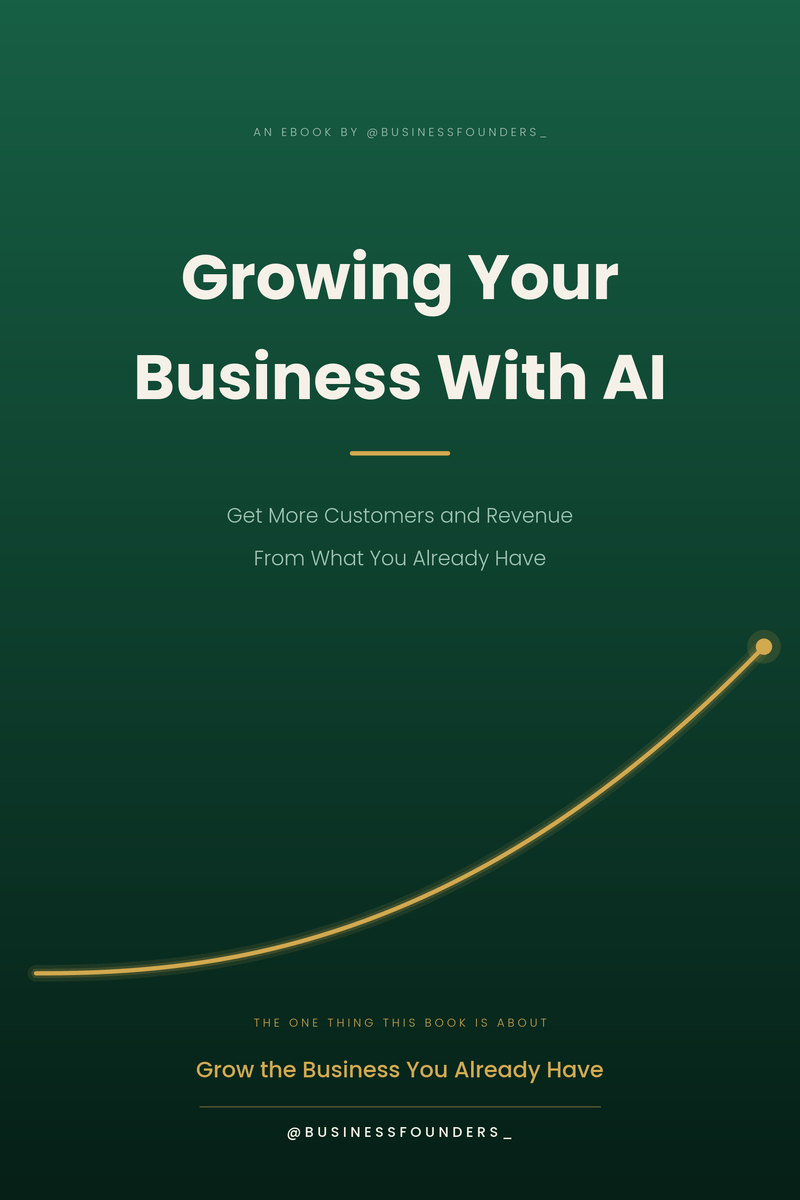
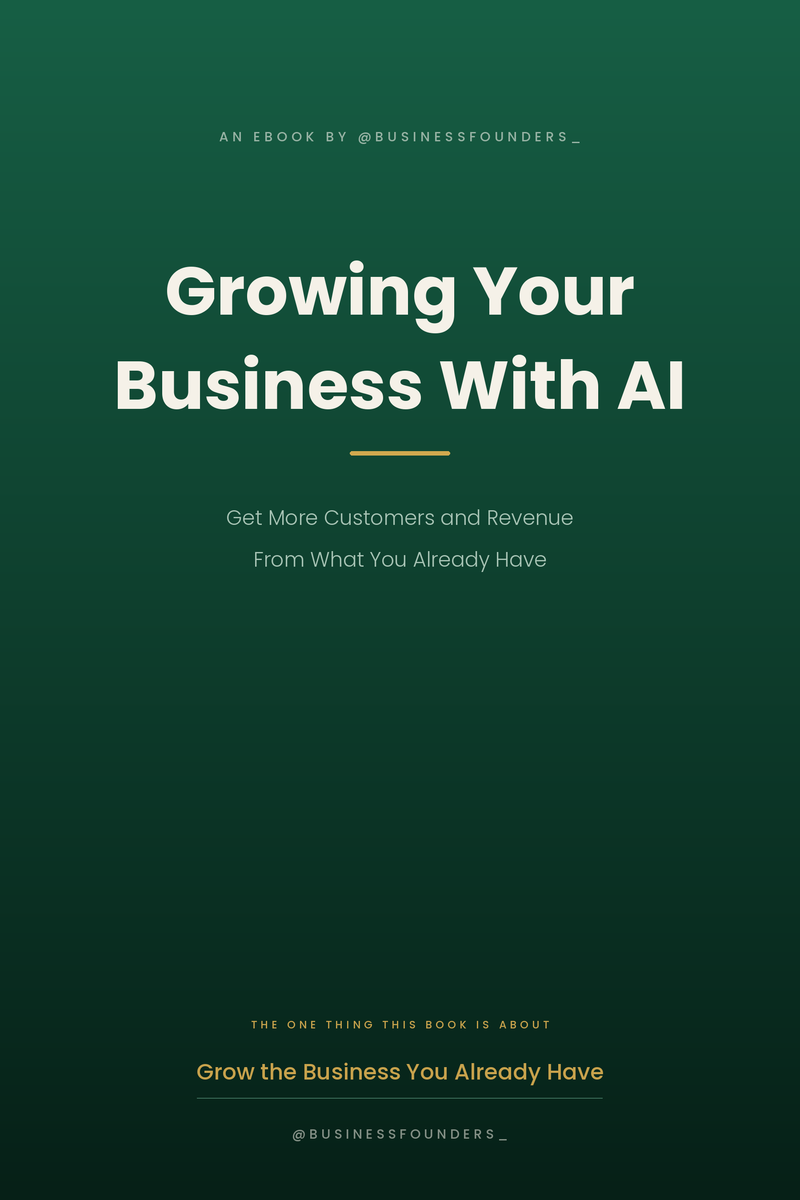
Draw book four's growth curve over the cover instead of printing it
New artwork with the curve removed and the middle band left empty, so
the curve can be animated over it. Replaces the temporary placeholder:
the shop shelf was showing a text mock-up for book 04 while its own page
showed finished art, on the page that sells.

The overlay uses the cover's own 1800x2700 space as its viewBox, so the
coordinates in books-config.js are read straight off the export and hold
at any card width. Measured against the artwork: the subtitle ends at
y=1274 and the caption block starts at y=2297; the curve occupies
1467..2194 with its stroke, and the node glow starts at 1360. That
leaves 86px of clearance above and 104px below, so nothing touches type.

Stroke is 27, not the old 3. That value was tuned for the 200-wide
stand-in viewBox; carried into the cover's 1800-wide space unchanged it
would have rendered under 2px. It now comes out at 5px on a 330px
desktop card and 3px on a 203px phone card.

Made reusable as asked: the path and node live in the theme as a curve
block, so any book can take the same treatment with its own line and
accent. Book 04 is the only one using it today. The detail page carries
the same overlay inline and now has a signature effect for the first
time, which it had lost when the printed curve made the SVG redundant.

Assets rebuilt from the 1800x2700 export at 800x1200 to match the other
three covers. The PNG is deliberately not palette-quantized: at 256
[…]

diff --git a/js/books.js b/js/books.js
@@ -112,24 +112,34 @@
     return cover;
   }
 
+  // A curve drawn over the cover rather than printed into it. The artwork
+  // leaves a band empty for it, so the overlay uses the cover's own
+  // 1800x2700 coordinate space as its viewBox and the numbers in
+  // books-config.js are read straight off the export. Nothing is in pixels,
+  // so it holds at any card width.
+  //
+  // Book 04 is the one using this today. Any book can: give it a curve
+  // block in its theme. The earlier printed curve could not be overlaid
+  // because a freehand line baked into an image has no geometry to target.
+  function curveOverlay(curve) {
+    const svg = document.createElementNS("http://www.w3.org/2000/svg", "svg");
+    svg.setAttribute("viewBox", "0 0 1800 2700");
+    svg.setAttribute("class", "curve");
+    svg.setAttribute("aria-hidden", "true");
+    const n = curve.node;
+    // glow, line, node: the glow sits behind the line, the node above it
+    svg.innerHTML =
+      `<circle class="node-glow" cx="${n.x}" cy="${n.y}" r="${n.glow}" />` +
+      `<path class="curve-path" d="${curve.d}" />` +
+      `<circle class="node" cx="${n.x}" cy="${n.y}" r="${n.r}" />`;
+    return svg;
+  }
+
   function buildCurveCover(theme) {
     const cover = document.createElement("div");
     cover.className = "book-cover";
     cover.appendChild(theme.cover ? coverImage(theme) : coverText(theme));
-    // The drawn curve was for the typographic stand-in. The real cover has
-    // a rising curve printed on it, and no overlay can line up with a curve
-    // baked into an image, so the artwork keeps it to itself.
-    if (theme.cover) return cover;
-    // Inline SVG so the curve can draw itself on section entry
-    const svg = document.createElementNS("http://www.w3.org/2000/svg", "svg");
-    svg.setAttribute("viewBox", "0 0 200 300");
-    svg.setAttribute("class", "curve");
-    svg.setAttribute("aria-hidden", "true");
-    svg.innerHTML =
-      `<path class="curve-path" d="M 18 258 C 70 252, 100 170, 132 116 S 168 58 180 44" />` +
-      `<circle class="node-glow" cx="180" cy="44" r="16" />` +
-      `<circle class="node" cx="180" cy="44" r="5" />`;
-    cover.appendChild(svg);
+    if (theme.curve) cover.appendChild(curveOverlay(theme.curve));
     return cover;
   }
 

diff --git a/book-04.html b/book-04.html
@@ -31,7 +31,7 @@
   <link rel="preconnect" href="https://fonts.gstatic.com" crossorigin />
   <link href="https://fonts.googleapis.com/css2?family=Playfair+Display:ital,wght@0,500;0,600;0,700;1,500&family=Inter:wght@400;500;600&family=Poppins:wght@400;500;600&display=swap" rel="stylesheet" />
   <link rel="stylesheet" href="css/style.css?v=7" />
-  <link rel="stylesheet" href="css/book-page.css?v=18" />
+  <link rel="stylesheet" href="css/book-page.css?v=19" />
 </head>
 <body class="book-page fx-curve" data-effect="curve" style="--bk-bg-top:#175F45; --bk-bg-bottom:#062017; --bk-accent:#D2A94F; --bk-accent-soft:rgba(210,169,79,.45); --bk-accent-faint:rgba(210,169,79,.14); --bk-text:#F5F1E8; --bk-muted:#9FC4B2; --bk-font:'Poppins', 'Inter', sans-serif;">
 
@@ -72,6 +72,15 @@
                 <source srcset="images/covers/book-4-growing-with-ai.webp" type="image/webp" />
                 <img src="images/covers/book-4-growing-with-ai.png" alt="Cover of Growing Your Business With AI" class="cover-img" width="800" height="1200" decoding="async" fetchpriority="high" />
               </picture>
+              <!-- Same overlay the shelf builds from the curve block in
+                   js/books-config.js. viewBox is the cover's own 1800x2700
+                   space, so these numbers match that config exactly; change
+                   both together. -->
+              <svg class="curve" viewBox="0 0 1800 2700" aria-hidden="true">
+                <circle class="node-glow" cx="1690" cy="1480" r="120" />
+                <path class="curve-path" d="M 90 2180 C 520 2168, 880 2090, 1160 1900 S 1545 1610, 1690 1480" />
+                <circle class="node" cx="1690" cy="1480" r="45" />
+              </svg>
             </div>
           </div>
         </div>

diff --git a/js/books-config.js b/js/books-config.js
@@ -75,10 +75,21 @@ const BOOK_THEMES = [
     title: "Growing Your Business With AI",
     subtitle: "Get More Customers and Revenue From What You Already Have",
     href: "book-04.html",
-    // TEMPORARY: cover disabled so the drawn curve animation is visible
-    // again on the shelf. Restore this line to bring the artwork back.
-    // cover: { webp: "images/covers/book-4-growing-with-ai.webp", png: "images/covers/book-4-growing-with-ai.png" },
-    cover: null,
+    cover: { webp: "images/covers/book-4-growing-with-ai.webp", png: "images/covers/book-4-growing-with-ai.png" },
+    // The artwork deliberately leaves its middle band empty so this curve
+    // can be drawn over it instead of printed into it. Coordinates are in
+    // the cover's own 1800x2700 space, which is what js/books.js uses as
+    // the overlay viewBox, so they hold at any rendered size.
+    //
+    // Measured off the export: the subtitle ends at y=1274 and the gold
+    // caption block starts at y=2297. Nothing here may stray outside
+    // roughly y=1400..2210, glow radius included, or it touches type.
+    // Any other book can take a curve by adding this same block with its
+    // own path and node.
+    curve: {
+      d: "M 90 2180 C 520 2168, 880 2090, 1160 1900 S 1545 1610, 1690 1480",
+      node: { x: 1690, y: 1480, r: 45, glow: 120 },
+    },
     price: "$14",
     priceWas: "$19",
     chapterPdf: "files/chapter-04.pdf",

diff --git a/ebooks.html b/ebooks.html
@@ -31,7 +31,7 @@
   <link rel="preconnect" href="https://fonts.gstatic.com" crossorigin />
   <link href="https://fonts.googleapis.com/css2?family=Playfair+Display:ital,wght@0,500;0,600;0,700;1,500&family=Inter:wght@400;500;600&family=Lora:wght@500;600&family=Poppins:wght@400;500;600&display=swap" rel="stylesheet" />
   <link rel="stylesheet" href="css/style.css?v=7" />
-  <link rel="stylesheet" href="css/books.css?v=25" />
+  <link rel="stylesheet" href="css/books.css?v=26" />
   <script type="importmap">
     { "imports": { "three": "https://cdn.jsdelivr.net/npm/three@0.165.0/build/three.module.js" } }
   </script>
@@ -189,8 +189,8 @@
   </div>
 
   <script type="module" src="js/scene.js?v=3"></script>
-  <script src="js/books-config.js?v=7"></script>
-  <script src="js/books.js?v=13"></script>
+  <script src="js/books-config.js?v=8"></script>
+  <script src="js/books.js?v=14"></script>
   <script src="js/main.js?v=13"></script>
   <script src="https://gumroad.com/js/gumroad.js"></script>
 </body>

diff --git a/book-03.html b/book-03.html
@@ -31,7 +31,7 @@
   <link rel="preconnect" href="https://fonts.gstatic.com" crossorigin />
   <link href="https://fonts.googleapis.com/css2?family=Playfair+Display:ital,wght@0,500;0,600;0,700;1,500&family=Inter:wght@400;500;600&family=Poppins:wght@400;500;600&display=swap" rel="stylesheet" />
   <link rel="stylesheet" href="css/style.css?v=7" />
-  <link rel="stylesheet" href="css/book-page.css?v=18" />
+  <link rel="stylesheet" href="css/book-page.css?v=19" />
 </head>
 <body class="book-page fx-lift bp-light" data-effect="lift" style="--bk-bg-top:#ECF2FC; --bk-bg-bottom:#ECF2FC; --bk-accent:#1B45D8; --bk-accent-soft:rgba(27,69,216,.4); --bk-accent-faint:rgba(27,69,216,.12); --bk-text:#121A2B; --bk-muted:#586380; --bk-font:'Poppins', 'Inter', sans-serif;">
 

diff --git a/book-02.html b/book-02.html
@@ -31,7 +31,7 @@
   <link rel="preconnect" href="https://fonts.gstatic.com" crossorigin />
   <link href="https://fonts.googleapis.com/css2?family=Playfair+Display:ital,wght@0,500;0,600;0,700;1,500&family=Inter:wght@400;500;600&family=Poppins:wght@400;500;600&display=swap" rel="stylesheet" />
   <link rel="stylesheet" href="css/style.css?v=7" />
-  <link rel="stylesheet" href="css/book-page.css?v=18" />
+  <link rel="stylesheet" href="css/book-page.css?v=19" />
 </head>
 <body class="book-page fx-grid" data-effect="grid" style="--bk-bg-top:#3A1226; --bk-bg-bottom:#160A11; --bk-accent:#D9A93C; --bk-accent-soft:rgba(217,169,60,.45); --bk-accent-faint:rgba(217,169,60,.14); --bk-text:#F6F1E6; --bk-muted:#B896A5; --bk-font:'Poppins', 'Inter', sans-serif;">
 

diff --git a/book-01.html b/book-01.html
@@ -31,7 +31,7 @@
   <link rel="preconnect" href="https://fonts.gstatic.com" crossorigin />
   <link href="https://fonts.googleapis.com/css2?family=Playfair+Display:ital,wght@0,500;0,600;0,700;1,500&family=Inter:wght@400;500;600&family=Lora:wght@500;600&display=swap" rel="stylesheet" />
   <link rel="stylesheet" href="css/style.css?v=7" />
-  <link rel="stylesheet" href="css/book-page.css?v=18" />
+  <link rel="stylesheet" href="css/book-page.css?v=19" />
 </head>
 <body class="book-page fx-shelf" data-effect="shelf" style="--bk-bg-top:#1B3C58; --bk-bg-bottom:#0E2334; --bk-accent:#C9A24C; --bk-accent-soft:rgba(201,162,76,.45); --bk-accent-faint:rgba(201,162,76,.14); --bk-text:#F4EFE4; --bk-muted:#C9BFAC; --bk-font:'Lora', Georgia, serif;">
 

diff --git a/css/books.css b/css/books.css
@@ -389,7 +389,10 @@ html {
 .fx-curve .curve-path {
   fill: none;
   stroke: var(--bk-accent);
-  stroke-width: 3;
+  /* 27 in the cover's 1800-wide space, which lands at about 5px on a
+     330px card. The old value of 3 was tuned for the 200-wide stand-in
+     viewBox; carried over unchanged it would render under 2px. */
+  stroke-width: 27;
   stroke-linecap: round;
   stroke-dasharray: var(--len, 400);
   stroke-dashoffset: var(--len, 400);

diff --git a/css/book-page.css b/css/book-page.css
@@ -235,7 +235,8 @@ body.book-page::before {
 .fx-curve .curve-path {
   fill: none;
   stroke: var(--bk-accent);
-  stroke-width: 3;
+  /* see the note in books.css: this is the cover's 1800-wide space */
+  stroke-width: 27;
   stroke-linecap: round;
   stroke-dasharray: var(--len, 400);
   stroke-dashoffset: var(--len, 400);
